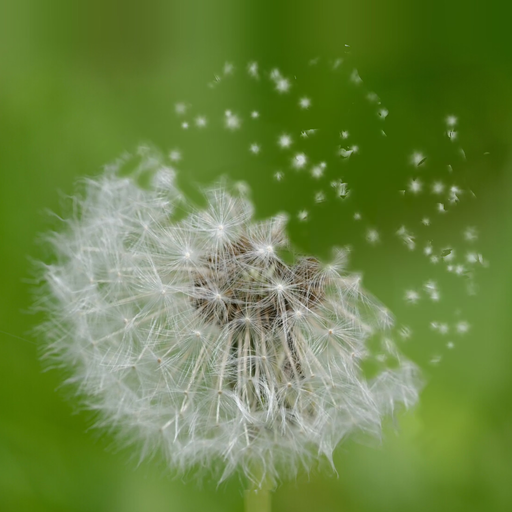
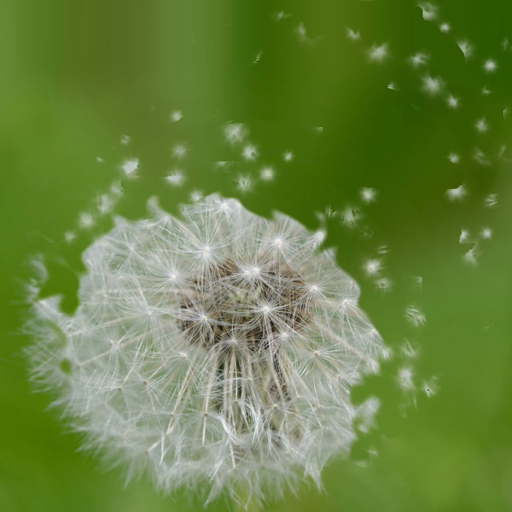
fix: make a gentle puff on the dandelion actually free seeds
The release order's first slice covered only the bare fringe, so a
light breath banked energy but stripped nothing visible, and energy
below one wave never released at all. Cells are now ordered ring-first
over tuft-bearing cells only, and banked energy releases when the
breath stops.

Tufts read as white specks; larger cells with a luma-gated matte read
as parachutes, and their travel runs on the band clock so the stagger
only gates appearance instead of slicing at cell boundaries. The
receptacle was the photo centre pasted at full size, a dandelion in
miniature; it is now blurred, shrunk and dome-shaded. Dark blotches
around the head during a strip came from inpaint-vs-bokeh tone under a
ragged front, so the cross-fade is wider and the lean falls off
smoothly instead of following the Vision mask's jagged edge.

Thumbnail recaptured from the final build.

Claude-Session: https://claude.ai/code/session_01MYgJDumHFGETXWCh37fS7V

diff --git a/example/src/components/dandelion/Dandelion.tsx b/example/src/components/dandelion/Dandelion.tsx
@@ -28,7 +28,7 @@ type DandelionProps = Omit<
 /**
  * A photographed dandelion clock whose seeds blow away.
  *
- * The head is cut into ~11pt cells; each cell over the head is one tuft.
+ * The head is cut into ~12pt cells; each cell over the head is one tuft.
  * While attached, the fragment simply shows the photo (leaning a few px into
  * the breath). Once the detached fraction passes a cell's place in the order
  * (downwind rim first, centre last), that patch of the photo lifts off: the
@@ -80,11 +80,11 @@ struct Uniforms {
 @group(0) @binding(2) var tex: texture_2d<f32>;
 
 const BANDS: f32 = 64.0;
-const CELL: f32 = 9.0;       // tuft grid, logical px
+const CELL: f32 = 12.0;      // tuft grid, logical px — a loose seed is a patch this size, so it reads as a parachute, not a speck
 const GATHER: i32 = 2;       // neighbourhood half-width in cells
-const TUFT: f32 = 0.6;       // nominal tuft radius, in cells — smaller than the grid, so tufts read as separate
+const TUFT: f32 = 0.65;      // nominal tuft radius, in cells — smaller than the grid, so tufts read as separate
 const SPREAD: f32 = 4.0;     // per-tuft random offset, logical px (well under GATHER*CELL)
-const DROP: f32 = 0.35;      // share of cells that simply vanish rather than fly
+const DROP: f32 = 0.3;       // share of cells that simply vanish rather than fly
 const LIFE: f32 = 4.4;       // seconds a loose seed stays visible
 const LIFT: f32 = 30.0;      // upward drift of a loose seed, logical px/s
 const KICK: f32 = 75.0;      // the breath that frees a seed also throws it: launch travel, logical px
@@ -141,19 +141,28 @@ fn baldAt(pp: vec2<f32>) -> vec3<f32> { return panelAt(pp, 1.0); }
 fn dataAt(pp: vec2<f32>) -> vec3<f32> { return panelAt(pp, 2.0); }
 
 // Where in the release order a point of the head sits, 0 (first to go) .. 1.
-// The downwind rim goes first and the near side last. On the real thing the
+// The downwind side goes first and the near side last. On the real thing the
 // near side lets go first and streams over the top — but this is a flat
 // photo, and a white seed crossing a white head is invisible until it is
 // spent, so a near-side-first order reads as "nothing happened". Letting the
-// far rim go first sends every seed straight off the silhouette into the sky.
-// The centre holds longest, and two octaves of noise keep the front ragged
-// rather than a clean bite.
+// far side go first sends every seed straight off the silhouette into the sky.
+//
+// The outer ring goes before the centre, but the ring, not the fringe: the
+// outermost wisps beyond ~0.9 R carry no tuft in the matte, so an order that
+// started right at the rim spent the first tenth of the breath stripping
+// nothing visible. The range is normalised over the cells that do carry a
+// tuft, so a gentle puff frees a few real seeds and the last of the energy
+// still has seeds left to take; the divisor keeps the analytic maximum of
+// raw (0.83, near side at 0.35 R with the noise at 1) under 1, since a cell
+// past 1 would never let go and its patch of photo would stay on the bald
+// head. Two octaves of noise keep the front ragged rather than a clean bite.
 fn headOrder(pp: vec2<f32>) -> f32 {
   let d = (pp - u.params0.zw) / u.params1.x;
-  let downwind = dot(d, WIND_DIR);
-  let rim = clamp(1.0 - length(d), 0.0, 1.0);
+  let downwind = clamp(dot(d, WIND_DIR), -1.0, 1.0);
+  let centre = 1.0 - smoothstep(0.35, 0.9, length(d));
   let n = 0.6 * vnoise(pp * 0.02) + 0.4 * vnoise(pp * 0.05 + 3.7);
-  return ((0.5 - 0.3 * downwind) + 0.14 * rim + 0.14 * n - 0.2) / 0.88;
+  let raw = 0.52 * (0.5 - 0.5 * downwind) + 0.30 * centre + 0.18 * n;
+  return (raw - 0.14) / 0.72;
 }
 
 // (time, wind distance) at which band k let go; time < 0 while attached.
@@ -240,12 +249,18 @@ fn gatherClass(q: vec2<f32>, cls: f32, detached: f32, nowT: f32, windW: f32, s: 
       if (info.x < 0.0) {
         continue;
       }
-      let age = nowT - info.x - h.y * 0.25;
+      // The stagger is only for when a tuft appears and fades; its travel
+      // uses the band's own clock, the same one the inversion above used, so
+      // the tuft is where its fragment expects it. Staggering the travel too
+      // moved tufts ~10 px off the inverted field, out of the gather window,
+      // and they came back sliced along a cell boundary.
+      let bandAge = nowT - info.x;
+      let age = bandAge - h.y * 0.08;
       if (age <= 0.0 || age >= LIFE) {
         continue;
       }
       let dW = max(0.0, windW - info.y);
-      let pos = c + drift(c, age, dW, h, cls);
+      let pos = c + drift(c, bandAge, dW, h, cls);
       let rel = q - pos;
       let dist = length(rel);
       // Tufts come in sizes; a soft gaussian body with a faint starburst
@@ -259,7 +274,11 @@ fn gatherClass(q: vec2<f32>, cls: f32, detached: f32, nowT: f32, windW: f32, s: 
       // through the hair matte so only the white hairs fly.
       let spin = (h.x - 0.5) * age * 1.6;
       let spp = cpp + rot2(rel, spin) / s;
-      let hair = smoothstep(0.1, 0.85, dataAt(spp).g);
+      let pc = photoAt(spp);
+      // The matte lets grey between-hair pixels through at low weight; only
+      // the bright hairs fly, or a tuft carries a green-grey smudge with it.
+      let hair = smoothstep(0.1, 0.85, dataAt(spp).g)
+               * smoothstep(0.5, 0.7, dot(pc, vec3<f32>(0.3, 0.59, 0.11)));
       let ang = atan2(rel.y, rel.x);
       let spokes = 0.7 + 0.3 * cos(ang * 7.0 + h2.y * 6.2831 + spin * 3.0);
       let body = exp(-(dist * dist) / (0.55 * rr * rr));
@@ -269,7 +288,7 @@ fn gatherClass(q: vec2<f32>, cls: f32, detached: f32, nowT: f32, windW: f32, s: 
       if (w <= 0.003) {
         continue;
       }
-      let col = mix(photoAt(spp), vec3<f32>(0.97, 0.97, 0.94), 0.25);
+      let col = mix(pc, vec3<f32>(0.97, 0.97, 0.94), 0.15);
       acc = acc + vec4<f32>(col * w, w);
     }
   }
@@ -292,12 +311,22 @@ fn main(@location(0) ndc: vec2<f32>) -> @location(0) vec4<f32> {
   let headW = dataAt(pp).r;
 
   // The head leans a few px into the breath and sways on its stem; the
-  // background does not. Sample the photo shifted where the head is.
-  let shift = (WIND_DIR * lean + vec2<f32>(sway * 0.35, sway)) * headW / s;
+  // background does not. Sample the photo shifted where the head is. The
+  // weight is a smooth radial falloff, not the head mask: the mask edge is
+  // the jagged silhouette from Vision, and a displacement that jumps across
+  // it tears a sliver of photo along that edge on every gust.
+  let headSoft = 1.0 - smoothstep(0.85, 1.15, length((pp - u.params0.zw) / u.params1.x));
+  let shift = (WIND_DIR * lean + vec2<f32>(sway * 0.35, sway)) * headSoft / s;
   let photo = photoAt(pp - shift);
   let bald = baldAt(pp);
+  // The front is ragged where there is head to bite into. Outside the head
+  // the two panels differ only in tone (the inpaint against the real bokeh,
+  // out to where the fill feathers off), and a ragged front through that
+  // showed up as sharp-edged blotches of darker green; there the cross-fade
+  // is slow, spread over a good part of the strip, so it reads as nothing.
   let orderQ = headOrder(pp);
-  let attached = 1.0 - smoothstep(orderQ - FRONT_SOFT, orderQ + FRONT_SOFT, detached);
+  let soft = mix(0.25, FRONT_SOFT, smoothstep(0.0, 0.5, headW));
+  let attached = 1.0 - smoothstep(orderQ - soft, orderQ + soft, detached);
   var base = mix(bald, photo, attached);
 
   // Loose tufts, one gather per cell class.

diff --git a/example/src/hooks/useDandelionPhysics.ts b/example/src/hooks/useDandelionPhysics.ts
@@ -111,7 +111,7 @@ function makeSim(): DandelionSim {
  * the wind distance since its own release.
  *
  * Writes the live channel every frame:
- * `u.live = (detached 0..1, gust 0..1, time s, wind px)`,
+ * `u.live = (detached 0..1, 0, time s, wind px)`,
  * `u.liveData[0] = (lean px, sway px, 0, 0)`,
  * `u.liveData[1 + k/2]` = `(time, wind)` of bands `k` and `k+1`, -1 while attached.
  */
@@ -227,8 +227,14 @@ export function useDandelionPhysics(): {
       }
       // The front sweeps once a wave's worth of energy is banked (or the head is
       // nearly gone), and keeps sweeping until it has caught the energy up.
+      // Whatever is banked below a wave when the breath stops is released
+      // then, so a puff ends with its last few seeds letting go rather than
+      // holding on until the next one.
       const behind = s.energy - s.detached;
-      if (behind > 0 && (s.sweeping || behind >= WAVE || s.energy >= 1)) {
+      if (
+        behind > 0 &&
+        (s.sweeping || behind >= WAVE || s.energy >= 1 || push === 0)
+      ) {
         s.sweeping = true;
         s.detached = Math.min(s.energy, s.detached + FRONT_RATE * dt);
         if (s.detached >= s.energy) {
@@ -254,7 +260,7 @@ export function useDandelionPhysics(): {
 
       const f = frame.current;
       f[0] = s.detached;
-      f[1] = s.gust;
+      f[1] = 0; // spare
       f[2] = s.time;
       f[3] = s.wind;
       f[4] = s.lean;
